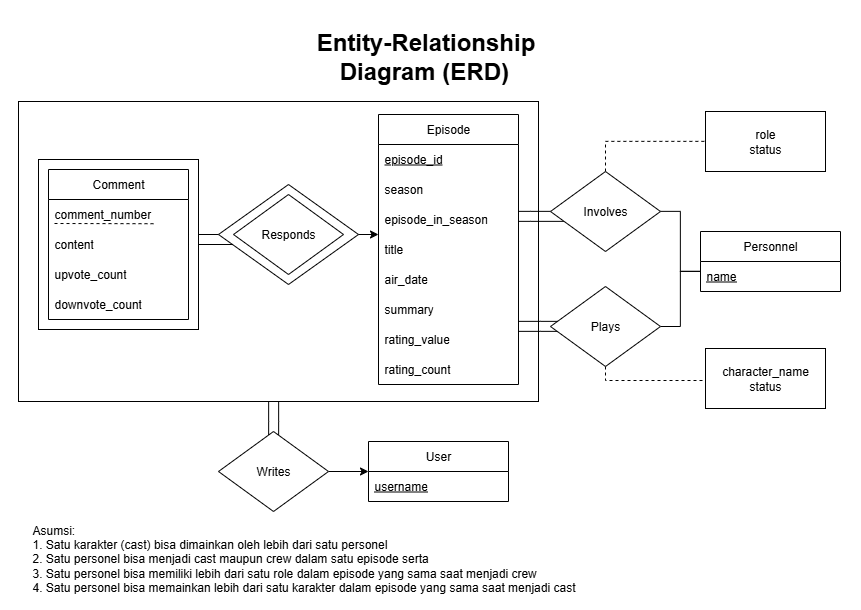
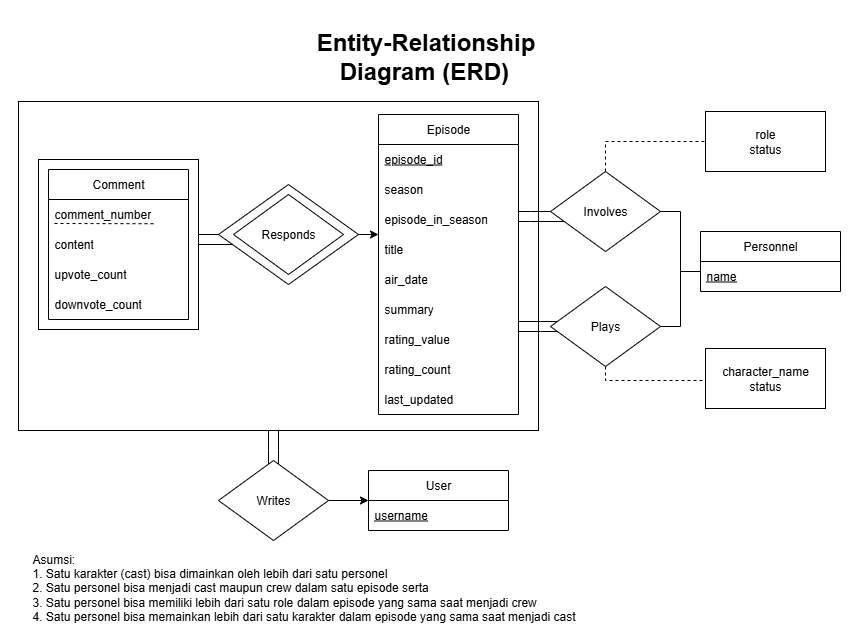
feat: add automated scheduling

diff --git a/Data Warehouse/src/dw_maker.py b/Data Warehouse/src/dw_maker.py
@@ -12,10 +12,29 @@ def get_db_connection(config):
     except mariadb.Error as e:
         print(f"Error connecting to MariaDB: {e}")
         return None
+    
+def get_credentials_from_config(path='config.json'):
+    try:
+        with open(path, 'r') as f:
+            config = json.load(f)
+            return config.get('db_user'), config.get('db_password')
+    except FileNotFoundError:
+        print(f"Error: MariaDB config file not found.")
+        return None, None
 
-def main():
+def get_credentials_manually():
     db_user = input("Enter your MariaDB username: ")
     db_password = getpass.getpass("Enter your MariaDB password: ")
+    return db_user, db_password
+
+def main():
+    if "--auto" in sys.argv:
+        db_user, db_password = get_credentials_from_config()
+        if not db_user or not db_password:
+            sys.exit(1)
+    else:
+        db_user, db_password = get_credentials_manually()
+        
     db_name = "ncis_dw"
 
     initial_config = {
@@ -76,6 +95,7 @@ def main():
             rating_value FLOAT CHECK (rating_value >= 0),
             rating_count INT CHECK (rating_count >= 0),
             comment_count INT CHECK (comment_count >= 0),
+            last_updated TIMESTAMP NOT NULL,
             PRIMARY KEY (episode_id),
             FOREIGN KEY (episode_id) REFERENCES DimEpisode(episode_id) ON DELETE CASCADE,
             FOREIGN KEY (date_id) REFERENCES DimDate(date_id) ON DELETE SET NULL
@@ -144,8 +164,9 @@ def main():
         cursor.executemany("INSERT INTO DimPersonnel (name) VALUES (?)", [(name,) for name in unique_people])
         cursor.execute("SELECT name, personnel_id FROM DimPersonnel")
         person_map = {name: key for name, key in cursor}
-        cursor.executemany("INSERT INTO DimEpisode (episode_id, title, season, episode_in_season, summary) VALUES (?, ?, ?, ?, ?)", 
-                           [(e['episode_id'], e['title'], e['season'], e['episode_in_season'], e['summary']) for e in episodes])
+        episode_sql = "INSERT INTO DimEpisode (episode_id, title, season, episode_in_season, summary) VALUES (?, ?, ?, ?, ?)"
+        episode_data = [(e['episode_id'], e['title'], e['season'], e['episode_in_season'], e['summary']) for e in episodes]
+        cursor.executemany(episode_sql, episode_data)
         print(f"Loaded {cursor.rowcount} episodes.")
         
         comment_counts = {}
@@ -153,6 +174,7 @@ def main():
             ep_id = c['episode_id']
             comment_counts[ep_id] = comment_counts.get(ep_id, 0) + 1
 
+        current_timestamp = datetime.now()
         fact_performance_data = []
         for e in episodes:
             date_key = date_map.get(e['air_date'])
@@ -162,17 +184,21 @@ def main():
                     date_key, 
                     e.get('rating_value'), 
                     e.get('rating_count'), 
-                    comment_counts.get(e['episode_id'], 0)
+                    comment_counts.get(e['episode_id'], 0),
+                    current_timestamp 
                 ))
-        cursor.executemany("INSERT INTO FactEpisodePerformance (episode_id, date_id, rating_value, rating_count, comment_count) VALUES (?, ?, ?, ?, ?)", fact_performance_data)
+        fact_sql = "INSERT INTO FactEpisodePerformance (episode_id, date_id, rating_value, rating_count, comment_count, last_updated) VALUES (?, ?, ?, ?, ?, ?)"
+        cursor.executemany(fact_sql, fact_performance_data)
         print(f"Loaded {cursor.rowcount} episode performance records.")
 
         cast_bridge_data = [(c['episode_id'], person_map[c['actor']], c['character'], c['status']) for c in casts]
-        cursor.executemany("INSERT INTO BridgeCastInvolvement (episode_id, personnel_id, character_name, status) VALUES (?, ?, ?, ?)", cast_bridge_data)
+        cast_sql = "INSERT INTO BridgeCastInvolvement (episode_id, personnel_id, character_name, status) VALUES (?, ?, ?, ?)"
+        cursor.executemany(cast_sql, cast_bridge_data)
         print(f"Loaded {cursor.rowcount} cast involvements.")
         
         crew_bridge_data = [(c['episode_id'], person_map[c['name']], c['role'], c['status']) for c in crews]
-        cursor.executemany("INSERT INTO BridgeCrewInvolvement (episode_id, personnel_id, role, status) VALUES (?, ?, ?, ?)", crew_bridge_data)
+        crew_sql = "INSERT INTO BridgeCrewInvolvement (episode_id, personnel_id, role, status) VALUES (?, ?, ?, ?)"
+        cursor.executemany(crew_sql, crew_bridge_data)
         print(f"Loaded {cursor.rowcount} crew involvements.")
 
         conn.commit()

diff --git a/Data Storing/src/db_maker.py b/Data Storing/src/db_maker.py
@@ -3,6 +3,7 @@ import sys
 import json
 import os
 import getpass
+from datetime import datetime
 
 def get_db_connection(config):
     try:
@@ -12,9 +13,28 @@ def get_db_connection(config):
         print(f"Error connecting to MariaDB: {e}")
         return None
 
-def main():
+def get_credentials_from_config(path='config.json'):
+    try:
+        with open(path, 'r') as f:
+            config = json.load(f)
+            return config.get('db_user'), config.get('db_password')
+    except FileNotFoundError:
+        print(f"Error: MariaDB config file not found.")
+        return None, None
+
+def get_credentials_manually():
     db_user = input("Enter your MariaDB username: ")
     db_password = getpass.getpass("Enter your MariaDB password: ")
+    return db_user, db_password
+
+def main():
+    if "--auto" in sys.argv:
+        db_user, db_password = get_credentials_from_config()
+        if not db_user or not db_password:
+            sys.exit(1)
+    else:
+        db_user, db_password = get_credentials_manually()
+        
     db_name = "ncis_db"
 
     initial_config = {
@@ -61,6 +81,7 @@ def main():
             summary TEXT,
             rating_value FLOAT CHECK (rating_value >= 0),
             rating_count INT CHECK (rating_count >= 0),
+            last_updated TIMESTAMP NOT NULL,
             CONSTRAINT chk_season CHECK (season >= 1),
             CONSTRAINT chk_episode_in_season CHECK (episode_in_season >= 1)
         ) ENGINE=InnoDB;
@@ -140,8 +161,9 @@ def main():
 
         with open(os.path.join(data_dir, 'episodes.json'), 'r', encoding='utf-8') as f:
             episodes = json.load(f)
-        ep_sql = "INSERT INTO Episode (episode_id, season, episode_in_season, title, air_date, summary, rating_value, rating_count) VALUES (?, ?, ?, ?, ?, ?, ?, ?)"
-        cursor.executemany(ep_sql, [(e['episode_id'], e['season'], e['episode_in_season'], e['title'], e['air_date'], e['summary'], e.get('rating_value'), e.get('rating_count')) for e in episodes])
+        current_timestamp = datetime.now() 
+        ep_sql = "INSERT INTO Episode (episode_id, season, episode_in_season, title, air_date, summary, rating_value, rating_count, last_updated) VALUES (?, ?, ?, ?, ?, ?, ?, ?, ?)"
+        cursor.executemany(ep_sql, [(e['episode_id'], e['season'], e['episode_in_season'], e['title'], e['air_date'], e['summary'], e.get('rating_value'), e.get('rating_count'), current_timestamp) for e in episodes])
         print(f"Loaded {cursor.rowcount} episodes.")
 
         cast_sql = "INSERT INTO Cast (episode_id, name, character_name, status) VALUES (?, ?, ?, ?)"
